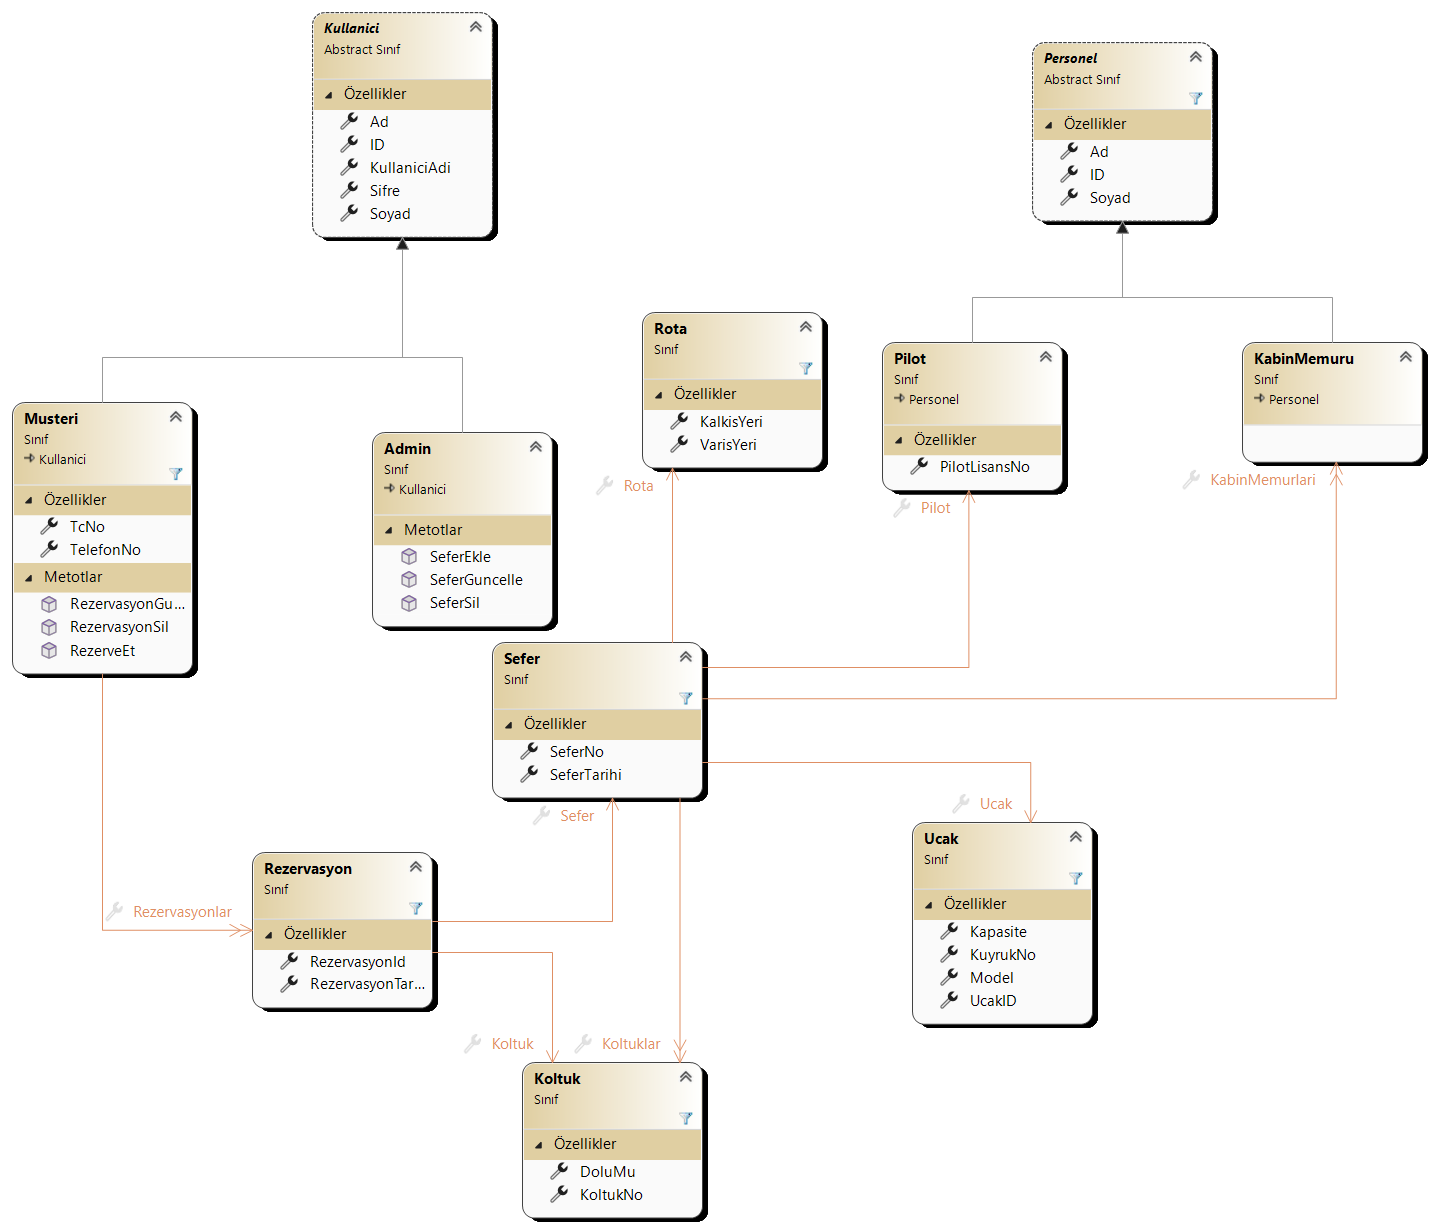
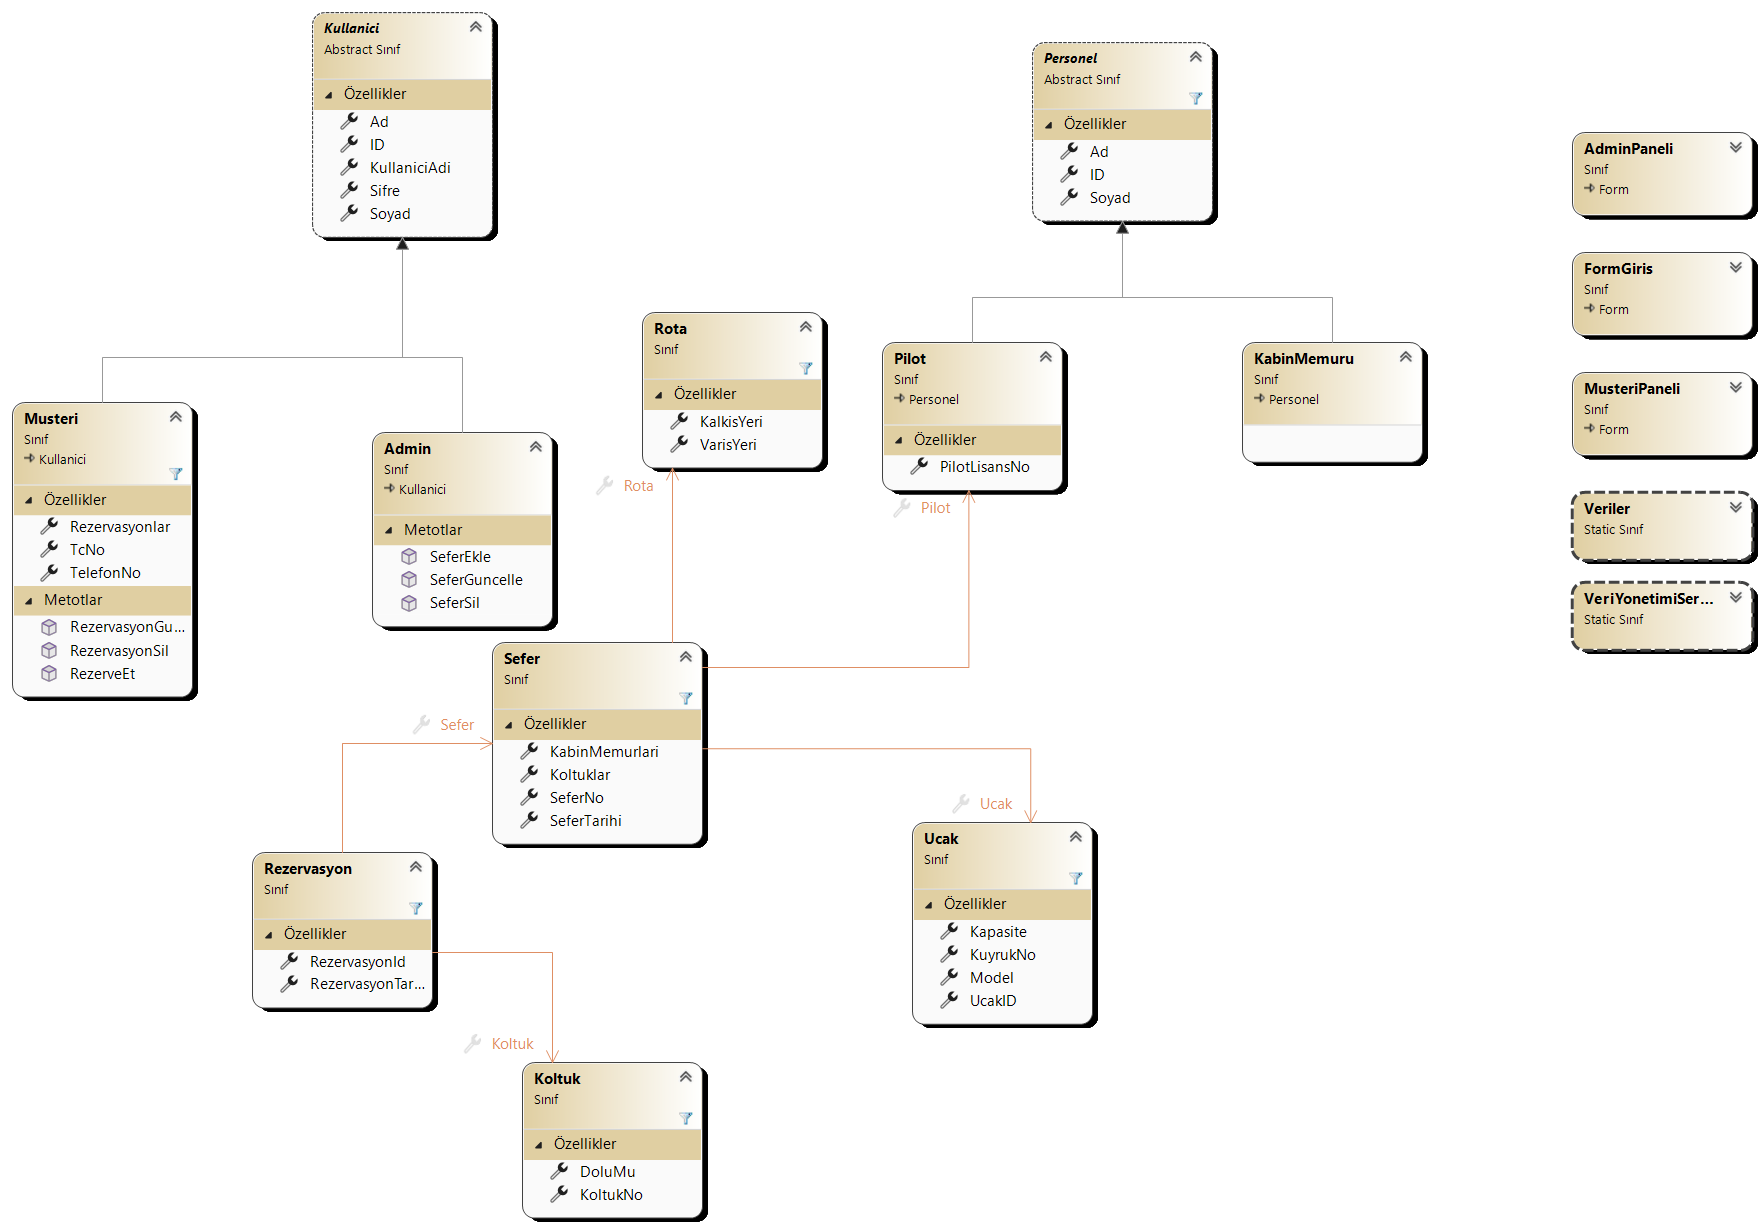
final için başlangıç

diff --git a/BiletRezervasyon/Formlar/FormGiris.Designer.cs b/BiletRezervasyon/Formlar/FormGiris.Designer.cs
@@ -30,9 +30,11 @@
         {
             kullaniciadi = new Label();
             sifre = new Label();
-            txtKullaniciAdi = new TextBox();
-            txtSifre = new TextBox();
-            btnGirisYap = new Button();
+            txtSifre = new ReaLTaiizor.Controls.HopeTextBox();
+            hopeForm1 = new ReaLTaiizor.Forms.HopeForm();
+            txtKullaniciAdi = new ReaLTaiizor.Controls.HopeTextBox();
+            hopeContextMenuStrip1 = new ReaLTaiizor.Controls.HopeContextMenuStrip();
+            btnGirisYap = new ReaLTaiizor.Controls.HopeButton();
             SuspendLayout();
             // 
             // kullaniciadi
@@ -48,34 +50,100 @@
             // sifre
             // 
             sifre.AutoSize = true;
-            sifre.Location = new Point(380, 252);
+            sifre.Location = new Point(355, 185);
             sifre.Name = "sifre";
             sifre.Size = new Size(39, 20);
-            sifre.TabIndex = 1;
+            sifre.TabIndex = 0;
             sifre.Text = "Şifre";
-            // 
-            // txtKullaniciAdi
-            // 
-            txtKullaniciAdi.Location = new Point(355, 115);
-            txtKullaniciAdi.Name = "txtKullaniciAdi";
-            txtKullaniciAdi.Size = new Size(125, 27);
-            txtKullaniciAdi.TabIndex = 2;
             // 
             // txtSifre
             // 
-            txtSifre.Location = new Point(380, 275);
+            txtSifre.BackColor = Color.White;
+            txtSifre.BaseColor = Color.FromArgb(44, 55, 66);
+            txtSifre.BorderColorA = Color.FromArgb(64, 158, 255);
+            txtSifre.BorderColorB = Color.FromArgb(220, 223, 230);
+            txtSifre.Font = new Font("Segoe UI", 12F);
+            txtSifre.ForeColor = Color.FromArgb(48, 49, 51);
+            txtSifre.Hint = "";
+            txtSifre.Location = new Point(355, 208);
+            txtSifre.MaxLength = 32767;
+            txtSifre.Multiline = false;
             txtSifre.Name = "txtSifre";
-            txtSifre.Size = new Size(125, 27);
-            txtSifre.TabIndex = 3;
+            txtSifre.PasswordChar = '*';
+            txtSifre.ScrollBars = ScrollBars.None;
+            txtSifre.SelectedText = "";
+            txtSifre.SelectionLength = 0;
+            txtSifre.SelectionStart = 0;
+            txtSifre.Size = new Size(154, 43);
+            txtSifre.TabIndex = 2;
+            txtSifre.TabStop = false;
+            txtSifre.UseSystemPasswordChar = false;
+            // 
+            // hopeForm1
+            // 
+            hopeForm1.ControlBoxColorH = Color.FromArgb(228, 231, 237);
+            hopeForm1.ControlBoxColorHC = Color.FromArgb(245, 108, 108);
+            hopeForm1.ControlBoxColorN = Color.White;
+            hopeForm1.Dock = DockStyle.Top;
+            hopeForm1.Font = new Font("Segoe UI", 12F);
+            hopeForm1.ForeColor = Color.FromArgb(242, 246, 252);
+            hopeForm1.Image = Properties.Resources.kou;
+            hopeForm1.Location = new Point(0, 0);
+            hopeForm1.Name = "hopeForm1";
+            hopeForm1.Size = new Size(800, 40);
+            hopeForm1.TabIndex = 9;
+            hopeForm1.Text = "Uçak Rezervasyon Sistemi";
+            hopeForm1.ThemeColor = Color.FromArgb(92, 173, 255);
+            // 
+            // txtKullaniciAdi
+            // 
+            txtKullaniciAdi.BackColor = Color.White;
+            txtKullaniciAdi.BaseColor = Color.FromArgb(44, 55, 66);
+            txtKullaniciAdi.BorderColorA = Color.FromArgb(64, 158, 255);
+            txtKullaniciAdi.BorderColorB = Color.FromArgb(220, 223, 230);
+            txtKullaniciAdi.Font = new Font("Segoe UI", 12F);
+            txtKullaniciAdi.ForeColor = Color.FromArgb(48, 49, 51);
+            txtKullaniciAdi.Hint = "";
+            txtKullaniciAdi.Location = new Point(355, 115);
+            txtKullaniciAdi.MaxLength = 32767;
+            txtKullaniciAdi.Multiline = false;
+            txtKullaniciAdi.Name = "txtKullaniciAdi";
+            txtKullaniciAdi.PasswordChar = '\0';
+            txtKullaniciAdi.ScrollBars = ScrollBars.None;
+            txtKullaniciAdi.SelectedText = "";
+            txtKullaniciAdi.SelectionLength = 0;
+            txtKullaniciAdi.SelectionStart = 0;
+            txtKullaniciAdi.Size = new Size(154, 43);
+            txtKullaniciAdi.TabIndex = 1;
+            txtKullaniciAdi.TabStop = false;
+            txtKullaniciAdi.UseSystemPasswordChar = false;
+            // 
+            // hopeContextMenuStrip1
+            // 
+            hopeContextMenuStrip1.BackColor = Color.White;
+            hopeContextMenuStrip1.ForeColor = Color.FromArgb(48, 49, 51);
+            hopeContextMenuStrip1.ImageScalingSize = new Size(20, 20);
+            hopeContextMenuStrip1.Name = "hopeContextMenuStrip1";
+            hopeContextMenuStrip1.Size = new Size(61, 4);
             // 
             // btnGirisYap
             // 
-            btnGirisYap.Location = new Point(365, 348);
+            btnGirisYap.BorderColor = Color.FromArgb(220, 223, 230);
+            btnGirisYap.ButtonType = ReaLTaiizor.Util.HopeButtonType.Primary;
+            btnGirisYap.DangerColor = Color.FromArgb(245, 108, 108);
+            btnGirisYap.DefaultColor = Color.FromArgb(255, 255, 255);
+            btnGirisYap.Font = new Font("Segoe UI", 12F);
+            btnGirisYap.HoverTextColor = Color.FromArgb(48, 49, 51);
+            btnGirisYap.InfoColor = Color.FromArgb(144, 147, 153);
+            btnGirisYap.Location = new Point(355, 314);
             btnGirisYap.Name = "btnGirisYap";
-            btnGirisYap.Size = new Size(94, 29);
-            btnGirisYap.TabIndex = 4;
+            btnGirisYap.PrimaryColor = Color.FromArgb(64, 158, 255);
+            btnGirisYap.Size = new Size(150, 50);
+            btnGirisYap.SuccessColor = Color.FromArgb(103, 194, 58);
+            btnGirisYap.TabIndex = 3;
             btnGirisYap.Text = "Giriş Yap";
-            btnGirisYap.UseVisualStyleBackColor = true;
+            btnGirisYap.TextColor = Color.White;
+            btnGirisYap.WarningColor = Color.FromArgb(230, 162, 60);
             btnGirisYap.Click += btnGirisYap_Click;
             // 
             // FormGiris
@@ -84,12 +152,18 @@
             AutoScaleMode = AutoScaleMode.Font;
             ClientSize = new Size(800, 450);
             Controls.Add(btnGirisYap);
-            Controls.Add(txtSifre);
             Controls.Add(txtKullaniciAdi);
+            Controls.Add(hopeForm1);
+            Controls.Add(txtSifre);
             Controls.Add(sifre);
             Controls.Add(kullaniciadi);
+            FormBorderStyle = FormBorderStyle.None;
+            MaximumSize = new Size(1920, 1020);
+            MinimumSize = new Size(190, 40);
             Name = "FormGiris";
-            Text = "FormGiris";
+            ShowIcon = false;
+            StartPosition = FormStartPosition.CenterScreen;
+            Text = "dungeonForm1";
             ResumeLayout(false);
             PerformLayout();
         }
@@ -98,8 +172,10 @@
 
         private Label kullaniciadi;
         private Label sifre;
-        private TextBox txtKullaniciAdi;
-        private TextBox txtSifre;
-        private Button btnGirisYap;
+        private ReaLTaiizor.Controls.HopeTextBox txtSifre;
+        private ReaLTaiizor.Forms.HopeForm hopeForm1;
+        private ReaLTaiizor.Controls.HopeTextBox txtKullaniciAdi;
+        private ReaLTaiizor.Controls.HopeContextMenuStrip hopeContextMenuStrip1;
+        private ReaLTaiizor.Controls.HopeButton btnGirisYap;
     }
 }

diff --git a/BiletRezervasyon/Properties/Resources.Designer.cs b/BiletRezervasyon/Properties/Resources.Designer.cs
@@ -1,0 +1,73 @@
+//------------------------------------------------------------------------------
+// <auto-generated>
+//     Bu kod araç tarafından oluşturuldu.
+//     Çalışma Zamanı Sürümü:4.0.30319.42000
+//
+//     Bu dosyada yapılacak değişiklikler yanlış davranışa neden olabilir ve
+//     kod yeniden oluşturulursa kaybolur.
+// </auto-generated>
+//------------------------------------------------------------------------------
+
+namespace BiletRezervasyon.Properties {
+    using System;
+    
+    
+    /// <summary>
+    ///   Yerelleştirilmiş dizeleri aramak gibi işlemler için, türü kesin olarak belirtilmiş kaynak sınıfı.
+    /// </summary>
+    // Bu sınıf ResGen veya Visual Studio gibi bir araç kullanılarak StronglyTypedResourceBuilder
+    // sınıfı tarafından otomatik olarak oluşturuldu.
+    // Üye eklemek veya kaldırmak için .ResX dosyanızı düzenleyin ve sonra da ResGen
+    // komutunu /str seçeneğiyle yeniden çalıştırın veya VS projenizi yeniden oluşturun.
+    [global::System.CodeDom.Compiler.GeneratedCodeAttribute("System.Resources.Tools.StronglyTypedResourceBuilder", "17.0.0.0")]
+    [global::System.Diagnostics.DebuggerNonUserCodeAttribute()]
+    [global::System.Runtime.CompilerServices.CompilerGeneratedAttribute()]
+    internal class Resources {
+        
+        private static global::System.Resources.ResourceManager resourceMan;
+        
+        private static global::System.Globalization.CultureInfo resourceCulture;
+        
+        [global::System.Diagnostics.CodeAnalysis.SuppressMessageAttribute("Microsoft.Performance", "CA1811:AvoidUncalledPrivateCode")]
+        internal Resources() {
+        }
+        
+        /// <summary>
+        ///   Bu sınıf tarafından kullanılan, önbelleğe alınmış ResourceManager örneğini döndürür.
+        /// </summary>
+        [global::System.ComponentModel.EditorBrowsableAttribute(global::System.ComponentModel.EditorBrowsableState.Advanced)]
+        internal static global::System.Resources.ResourceManager ResourceManager {
+            get {
+                if (object.ReferenceEquals(resourceMan, null)) {
+                    global::System.Resources.ResourceManager temp = new global::System.Resources.ResourceManager("BiletRezervasyon.Properties.Resources", typeof(Resources).Assembly);
+                    resourceMan = temp;
+                }
+                return resourceMan;
+            }
+        }
+        
+        /// <summary>
+        ///   Tümü için geçerli iş parçacığının CurrentUICulture özelliğini geçersiz kular
+        ///   CurrentUICulture özelliğini tüm kaynak aramaları için geçersiz kılar.
+        /// </summary>
+        [global::System.ComponentModel.EditorBrowsableAttribute(global::System.ComponentModel.EditorBrowsableState.Advanced)]
+        internal static global::System.Globalization.CultureInfo Culture {
+            get {
+                return resourceCulture;
+            }
+            set {
+                resourceCulture = value;
+            }
+        }
+        
+        /// <summary>
+        ///   System.Drawing.Bitmap türünde yerelleştirilmiş bir kaynak arar.
+        /// </summary>
+        internal static System.Drawing.Bitmap kou {
+            get {
+                object obj = ResourceManager.GetObject("kou", resourceCulture);
+                return ((System.Drawing.Bitmap)(obj));
+            }
+        }
+    }
+}

diff --git a/BiletRezervasyon/Formlar/FormGiris.cs b/BiletRezervasyon/Formlar/FormGiris.cs
@@ -26,7 +26,7 @@ namespace BiletRezervasyon.Formlar
             Veriler.ucaklar = VeriYonetimiServisi.UcaklariYukle();
             Veriler.kullanicilar = VeriYonetimiServisi.KullanicilariYukle();
 
-       
+
 
         }
 
@@ -44,25 +44,25 @@ namespace BiletRezervasyon.Formlar
             //  Kullanıcı bulundu mu?
             if (bulunanKullanici != null)
             {
-               
-                
+
+
                 // rol kontrolü
-                
-                 if (bulunanKullanici is Admin)
+
+                if (bulunanKullanici is Admin)
                 {
                     // adminse
                     MessageBox.Show("Admin girişi başarılı!");
                     AdminPaneli adminForm = new AdminPaneli(bulunanKullanici as Admin);
                     adminForm.Show();
-                    this.Hide(); 
+                    this.Hide();
                 }
                 else if (bulunanKullanici is Musteri)
                 {
                     // müşteriyse
                     MessageBox.Show("Müşteri girişi başarılı!");
                     MusteriPaneli musteriForm = new MusteriPaneli(bulunanKullanici as Musteri); // Müşteri bilgisini diğer forma yolla
-                     musteriForm.Show();
-                     this.Hide(); 
+                    musteriForm.Show();
+                    this.Hide();
                 }
             }
             else
@@ -71,6 +71,8 @@ namespace BiletRezervasyon.Formlar
                 MessageBox.Show("Kullanıcı adı veya şifre hatalı!", "Hata", MessageBoxButtons.OK, MessageBoxIcon.Error);
             }
         }
+
+      
     }
 
 
